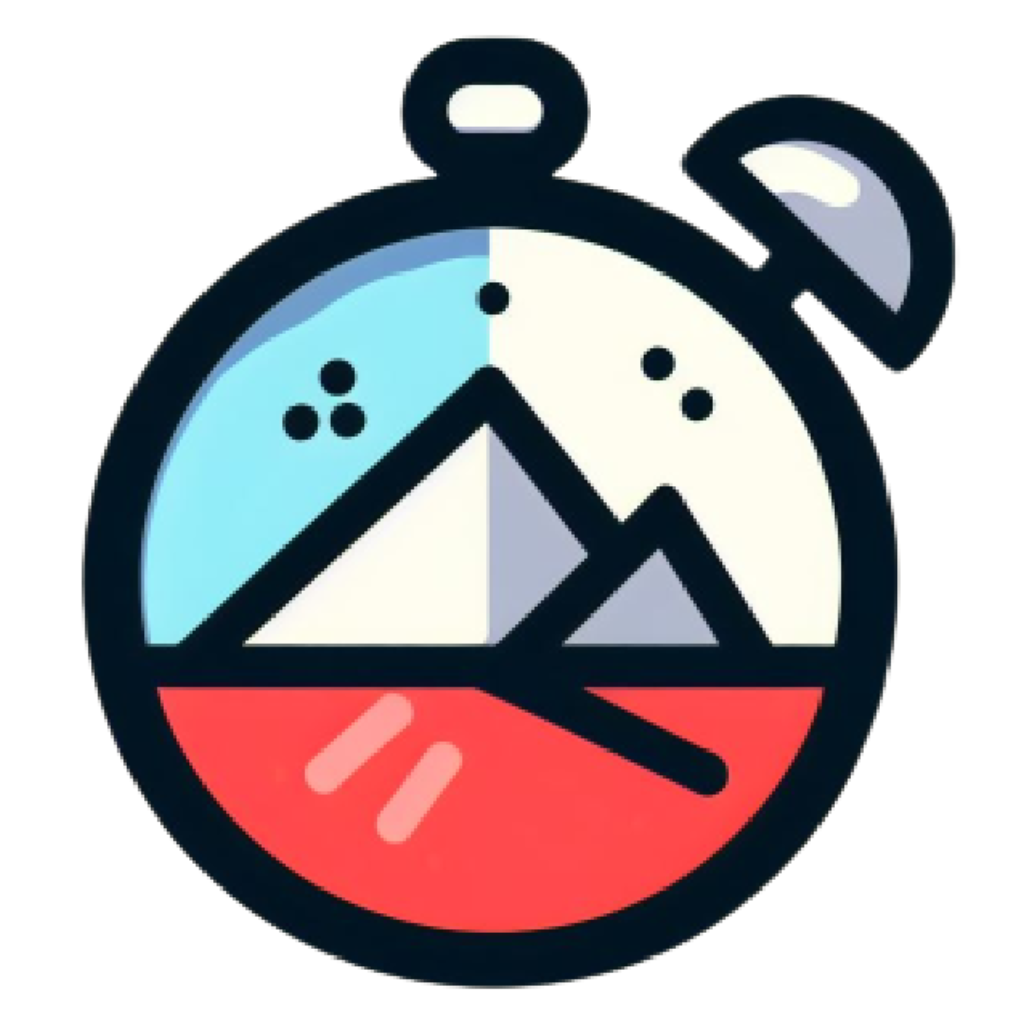
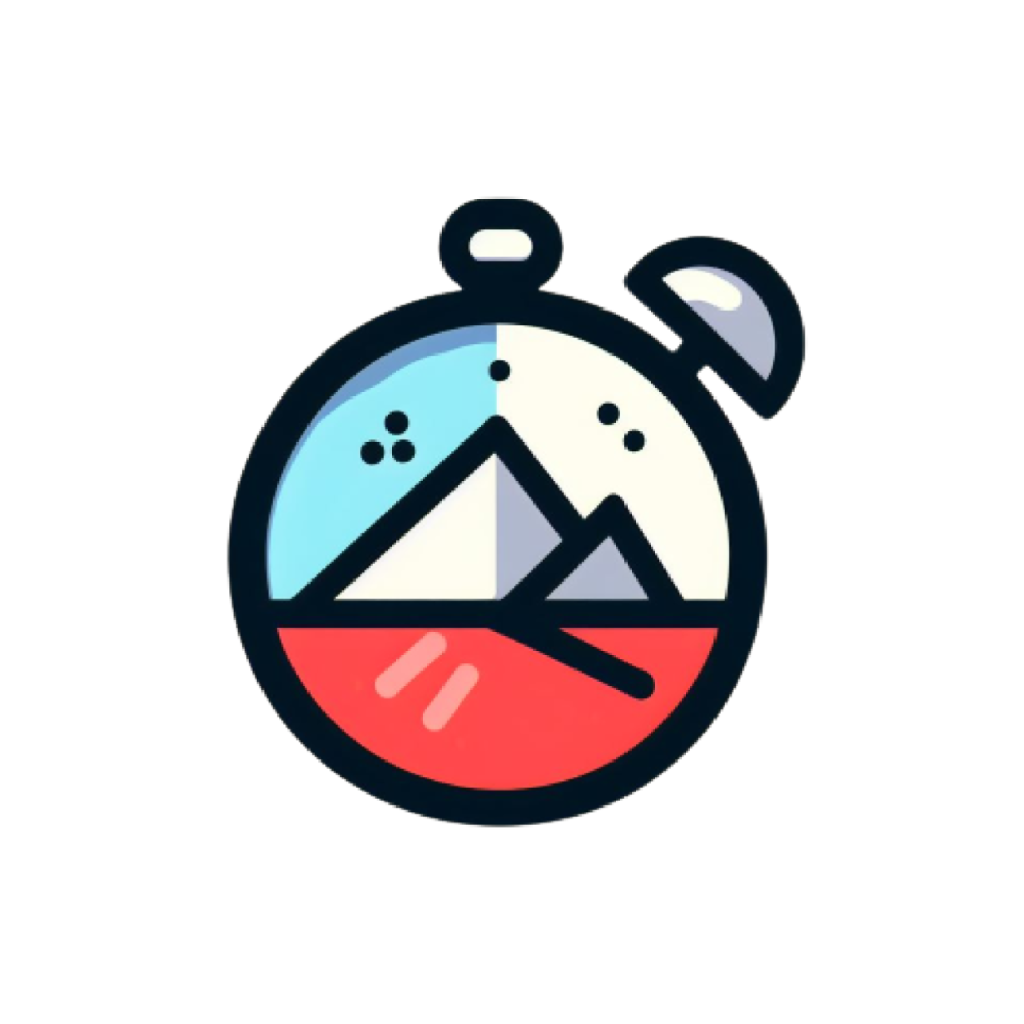
Se ha añadido el statusbar y se han cambiado el tamaño de los iconos de la aplicación

diff --git a/App.js b/App.js
@@ -10,6 +10,7 @@ import Header from "./src/components/Header";
 import Timer from "./src/components/Timer";
 import { Audio } from "expo-av";
 import { Entypo } from "@expo/vector-icons";
+import { StatusBar } from "expo-status-bar";
 
 const colors = ["#F7DC6F", "#A2D9CE", "#D7BDE2"];
 
@@ -124,6 +125,7 @@ export default function App() {
           paddingTop: Platform.OS === "android" && 30,
         }}
       >
+      <StatusBar/>
         <View
           style={{
             flexDirection: "row",
